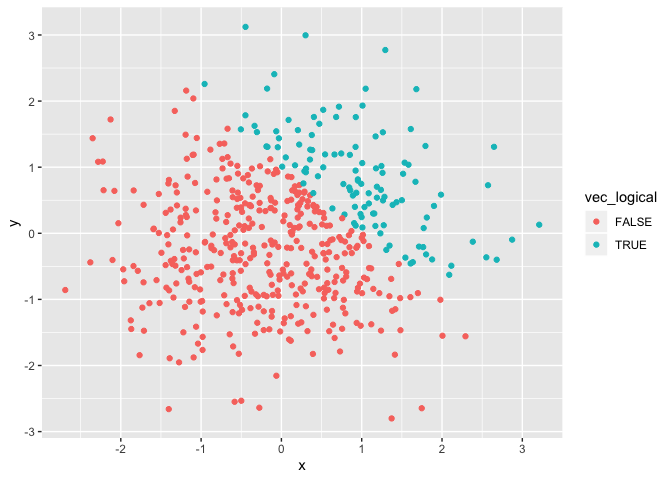
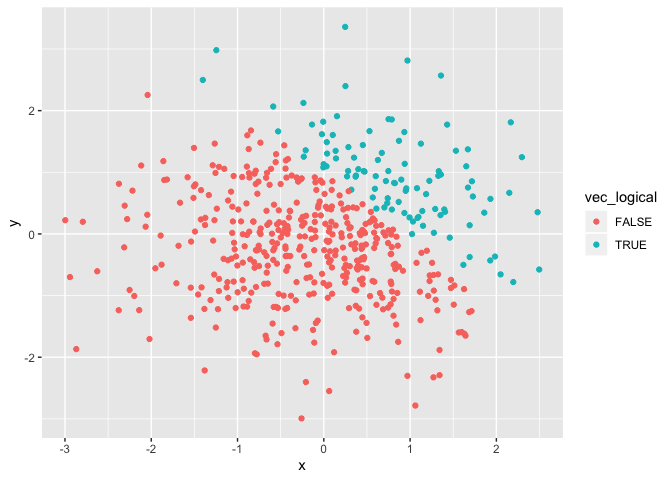
change the scale of first plot

diff --git a/p8105_hw1_xh2395.md b/p8105_hw1_xh2395.md
@@ -39,13 +39,13 @@ problem1_df = tibble(
 mean(pull(problem1_df, vec_numeric))
 ```
 
-    ## [1] 0.1755581
+    ## [1] 0.04744473
 
 ``` r
 mean(pull(problem1_df, vec_logical))
 ```
 
-    ## [1] 0.625
+    ## [1] 0.25
 
 ``` r
 mean(pull(problem1_df, vec_char))
@@ -74,7 +74,7 @@ vec\_char and vec\_factor doesn’t work.
 as.numeric(pull(problem1_df, vec_logical))
 ```
 
-    ## [1] 0 0 1 1 1 1 0 1
+    ## [1] 1 0 0 0 1 0 0 0
 
 ``` r
 as.numeric(pull(problem1_df, vec_char))
@@ -101,8 +101,7 @@ multiply:**
 as.numeric(pull(problem1_df, vec_logical))*pull(problem1_df, vec_numeric)
 ```
 
-    ## [1] 0.0000000 0.0000000 1.2415849 0.5166485 1.1708866 0.0345899 0.0000000
-    ## [8] 0.9446244
+    ## [1] 0.655339 0.000000 0.000000 0.000000 1.918601 0.000000 0.000000 0.000000
 
 ``` r
 as.factor(pull(problem1_df, vec_logical))*pull(problem1_df, vec_numeric)
@@ -117,8 +116,8 @@ as.factor(pull(problem1_df, vec_logical))*pull(problem1_df, vec_numeric)
 as.numeric(as.factor(pull(problem1_df, vec_logical)))*pull(problem1_df, vec_numeric)
 ```
 
-    ## [1] -0.35908965 -1.78868250  2.48316986  1.03329695  2.34177318  0.06917981
-    ## [7] -0.35609726  1.88924889
+    ## [1]  1.31067791 -0.68629050 -0.40880453 -0.71360122  3.83720169 -0.18830719
+    ## [7] -0.13742363 -0.05995486
 
 ## problem 2
 
@@ -136,13 +135,13 @@ problem2_df = tibble(
 
 The size of the dataset is 500 and 5.
 
-The mean of x is 0.0162651.
+The mean of x is -0.0427131.
 
-The median of x is0.0272318.
+The median of x is0.0131475.
 
-The standard deviation of x is 1.0039827.
+The standard deviation of x is 0.989969.
 
-The proportion of cases for which x + y \> 1 is 0.226.
+The proportion of cases for which x + y \> 1 is 0.2.
 
 **Make a scatterplot of y vs x (color points using the logical
 variable):**
@@ -156,10 +155,10 @@ ggplot(problem2_df, aes(x = x, y = y, color = vec_logical)) + geom_point()
 **Export the first scatterplot to the project directory:**
 
 ``` r
-ggsave("firstplot.png")
+ggsave(file = "firstplot.png", scale=0.5)
 ```
 
-    ## Saving 7 x 5 in image
+    ## Saving 3.5 x 2.5 in image
 
 **Make a second scatterplot of y vs x (color points using the numeric
 variable):**
